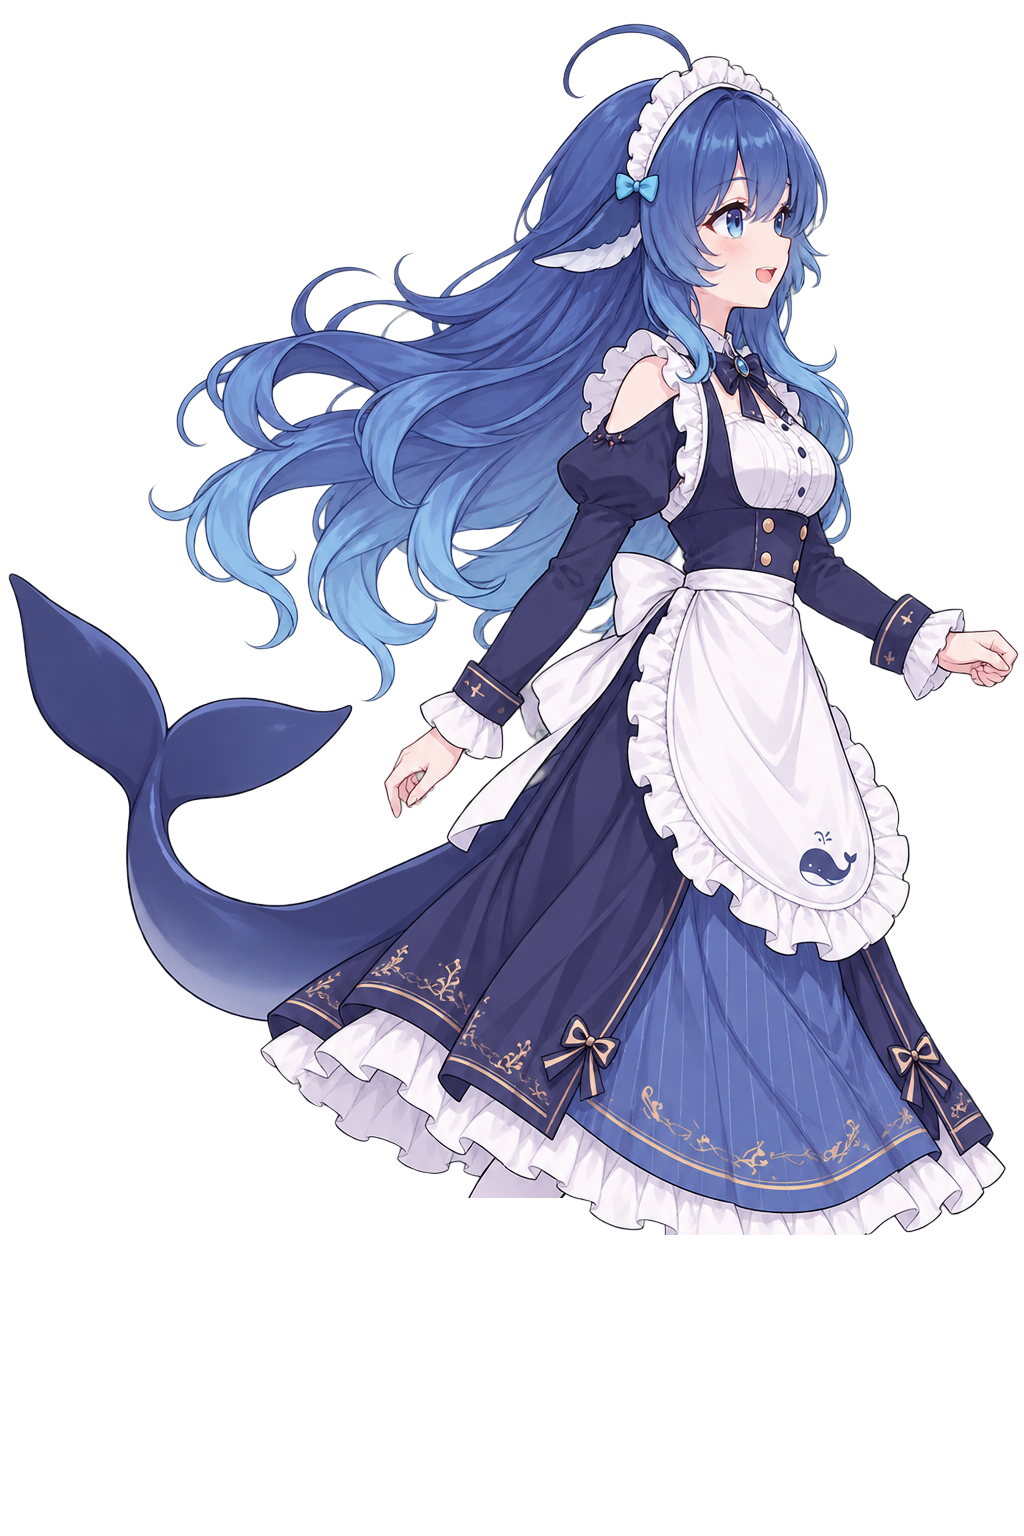
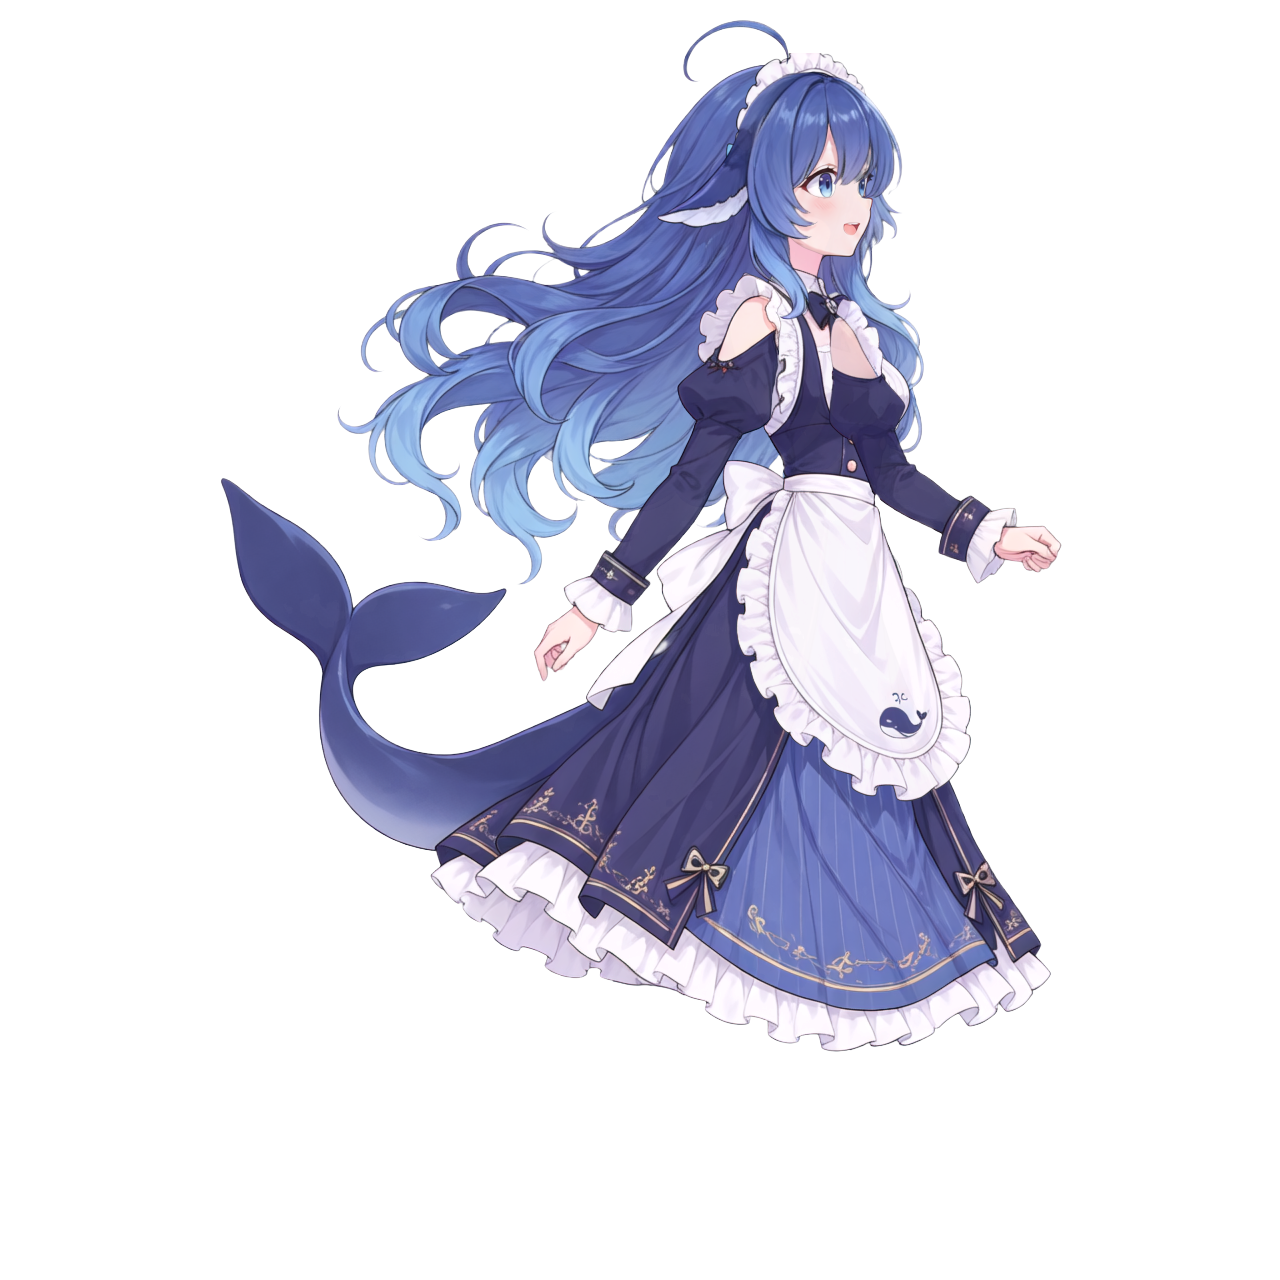
v0.14.18：assembly 试点——See-through 分层部件接入，侧身步态结合部零断裂
- 试点：See-through (Apache-2.0, SIGGRAPH 2026) 分解 final_healthy_side
  → 16 语义层（legwear 双袜含裙下补全/footwear 双鞋/handwear 双臂/
  bottomwear 裙+尾/hair×2/face 组），重组装 vs 原图近乎不可分辨
- tools/import_layers.py：legwear α 连通拆双腿 + footwear 拆双鞋按就近
  合并（袜压鞋帮）成两腿件；其余层按画序叠合为身体核心（补全区即
  防断裂延伸，双向摆动密封）；枢轴=袜顶中点上移 10px 入裙料
- 参考原图替换为 1280 画布透明版（分解管线几何）；门禁满分：内部失配
  0.000%、交叠 0px；摆幅放大 ±14°；v14 30 通过 0 失败
- 引擎零改动（px_rect/pivot/base_deg/gaitK 全复用）

Changed region(s): [[0.0, 0.0, 1.0, 0.8125], [0.5312, 0.5625, 0.5625, 0.5938]]

diff --git a/tools/import_layers.py b/tools/import_layers.py
@@ -1,0 +1,124 @@
+#!/usr/bin/env python
+"""See-through 分解层 → rig 部件装配（v0.14.18 assembly 试点）。
+
+输入：See-through 输出的层 PNG 目录（1280 方画布、原始画布坐标）+
+      原始参考图（final_healthy_side.png）。
+产出：
+  figs/healthy_side.png            身体核心（除腿外全部层按画序叠合）
+  parts/leg_{front,back}_healthy_side.png   袜+同侧鞋合并的腿件（含模型
+                                   补全的裙下延伸段=防断裂）
+  覆盖 assets/ai/final_healthy_side.png 为 1280 画布版参考原图
+  （管线对 1024x1536 输入的几何变换按最小差异自动判定：拉伸 or 适配留白）
+
+需在 see-through venv 运行（依赖 numpy/scipy/psd_tools 同款环境）。
+"""
+from __future__ import annotations
+
+import json
+import os
+import sys
+
+import numpy as np
+from PIL import Image
+from scipy import ndimage
+
+REPO = os.path.dirname(os.path.dirname(os.path.abspath(__file__)))
+LAYERS = sys.argv[1]
+CANVAS = (1280, 1280)
+
+
+def load(name: str) -> Image.Image:
+    return Image.open(os.path.join(LAYERS, f"layer_{name}.png")).convert("RGBA")
+
+
+def split_components(img: Image.Image):
+    """α>0 连通域拆分，按面积降序返回 [(bbox, crop), ...]。"""
+    a = np.asarray(img.getchannel("A")) > 0
+    lab, n = ndimage.label(a)
+    out = []
+    for i in range(1, n + 1):
+        mask = lab == i
+        ys, xs = np.nonzero(mask)
+        if len(ys) < 500:            # 丢弃碎屑
+            continue
+        x0, x1, y0, y1 = xs.min(), xs.max() + 1, ys.min(), ys.max() + 1
+        crop = Image.new("RGBA", (x1 - x0, y1 - y0), (0, 0, 0, 0))
+        crop.paste(img.crop((x0, y0, x1, y1)), (0, 0))
+        out.append(((int(x0), int(y0), int(x1), int(y1)), crop))
+    out.sort(key=lambda t: -(t[0][2] - t[0][0]) * (t[0][3] - t[0][1]))
+    return out
+
+
+def main() -> int:
+    stage_dir = os.path.join(REPO, "assets", "rig", "final")
+
+    # ---- 1) 腿件：legwear 拆双腿 + footwear 拆双鞋按就近合并 ----
+    legwear = load("02_legwear")
+    shoes = split_components(load("03_footwear"))
+    legs = split_components(legwear)
+    if len(legs) != 2 or len(shoes) != 2:
+        print(f"❌ legwear 拆出 {len(legs)} 腿 / footwear 拆出 {len(shoes)} 鞋，"
+              f"预期各 2——分解层异常")
+        return 2
+    # 左=front? 侧身朝右：x 较小者为后腿，较大者为前腿
+    legs.sort(key=lambda t: t[0][0])
+    shoes.sort(key=lambda t: t[0][0])
+    pairs = [("leg_back", legs[0], shoes[0]), ("leg_front", legs[1], shoes[1])]
+
+    made = {}
+    for name, (lb, crop_l), (sb, crop_s) in pairs:
+        x0 = min(lb[0], sb[0]); y0 = min(lb[1], sb[1])
+        x1 = max(lb[2], sb[2]); y1 = max(lb[3], sb[3])
+        merged = Image.new("RGBA", (x1 - x0, y1 - y0), (0, 0, 0, 0))
+        merged.alpha_composite(crop_s, (sb[0] - x0, sb[1] - y0))
+        merged.alpha_composite(crop_l, (lb[0] - x0, lb[1] - y0))  # 袜压鞋帮
+        made[name] = (merged, (x0, y0, x1, y1))
+        fp = os.path.join(stage_dir, "parts", f"{name}_healthy_side.png")
+        merged.save(fp)
+        # 枢轴：袜顶中点再上移 30px（深入裙料内）
+        a = np.asarray(merged.getchannel("A")) > 0
+        ys, xs = np.nonzero(a[: max(1, lb[1] - y0 + 40)])
+        px_ = int(xs.mean()) if len(xs) else (x1 - x0) // 2
+        pivot = [x0 + px_, y0 + 10]
+        print(f"{name}: bbox={x0,y0,x1,y1} pivot={pivot}")
+        made[name] = (made[name][0], made[name][1], pivot)
+
+    # ---- 2) 身体核心：其余层按画序叠合 ----
+    body_order = ["01_back_hair", "04_bottomwear", "05_neck", "06_topwear",
+                  "07_handwear", "08_eyebrow", "09_face", "10_nose",
+                  "11_mouth", "12_eyelash", "13_headwear", "14_eyewhite",
+                  "15_irides", "16_front_hair"]
+    core = Image.new("RGBA", CANVAS, (0, 0, 0, 0))
+    for name in body_order:
+        core.alpha_composite(load(name))
+    core.save(os.path.join(stage_dir, "figs", "healthy_side.png"))
+    print("body core: figs/healthy_side.png")
+
+    # ---- 3) manifest 更新 ----
+    mpath = os.path.join(stage_dir, "manifest.json")
+    m = json.load(open(mpath, encoding="utf-8"))
+    m["figures"]["healthy_side"] = "figs/healthy_side.png"
+    m["parts"] = [p for p in m["parts"] if p["source_figure"] != "healthy_side"]
+    for name in ("leg_back", "leg_front"):
+        img, bbox, pivot = made[name]
+        m["parts"].append({
+            "id": f"{name}_healthy_side",
+            "file": f"parts/{name}_healthy_side.png",
+            "source_figure": "healthy_side",
+            "px_rect": list(bbox),
+            "pivot": pivot,
+            "z": "under_core",
+            "kind": "limb",
+            "base_deg": 0.0,
+            "sway": {"amp_deg": 10.0,
+                     "period_ms": 2600.0,
+                     "phase_ms": 0.0 if name == "leg_front" else 1300.0},
+        })
+    json.dump(m, open(mpath, "w", encoding="utf-8"), ensure_ascii=False,
+              indent=2)
+    print("manifest updated")
+    return 0
+
+
+if __name__ == "__main__":
+    sys.exit(main())
